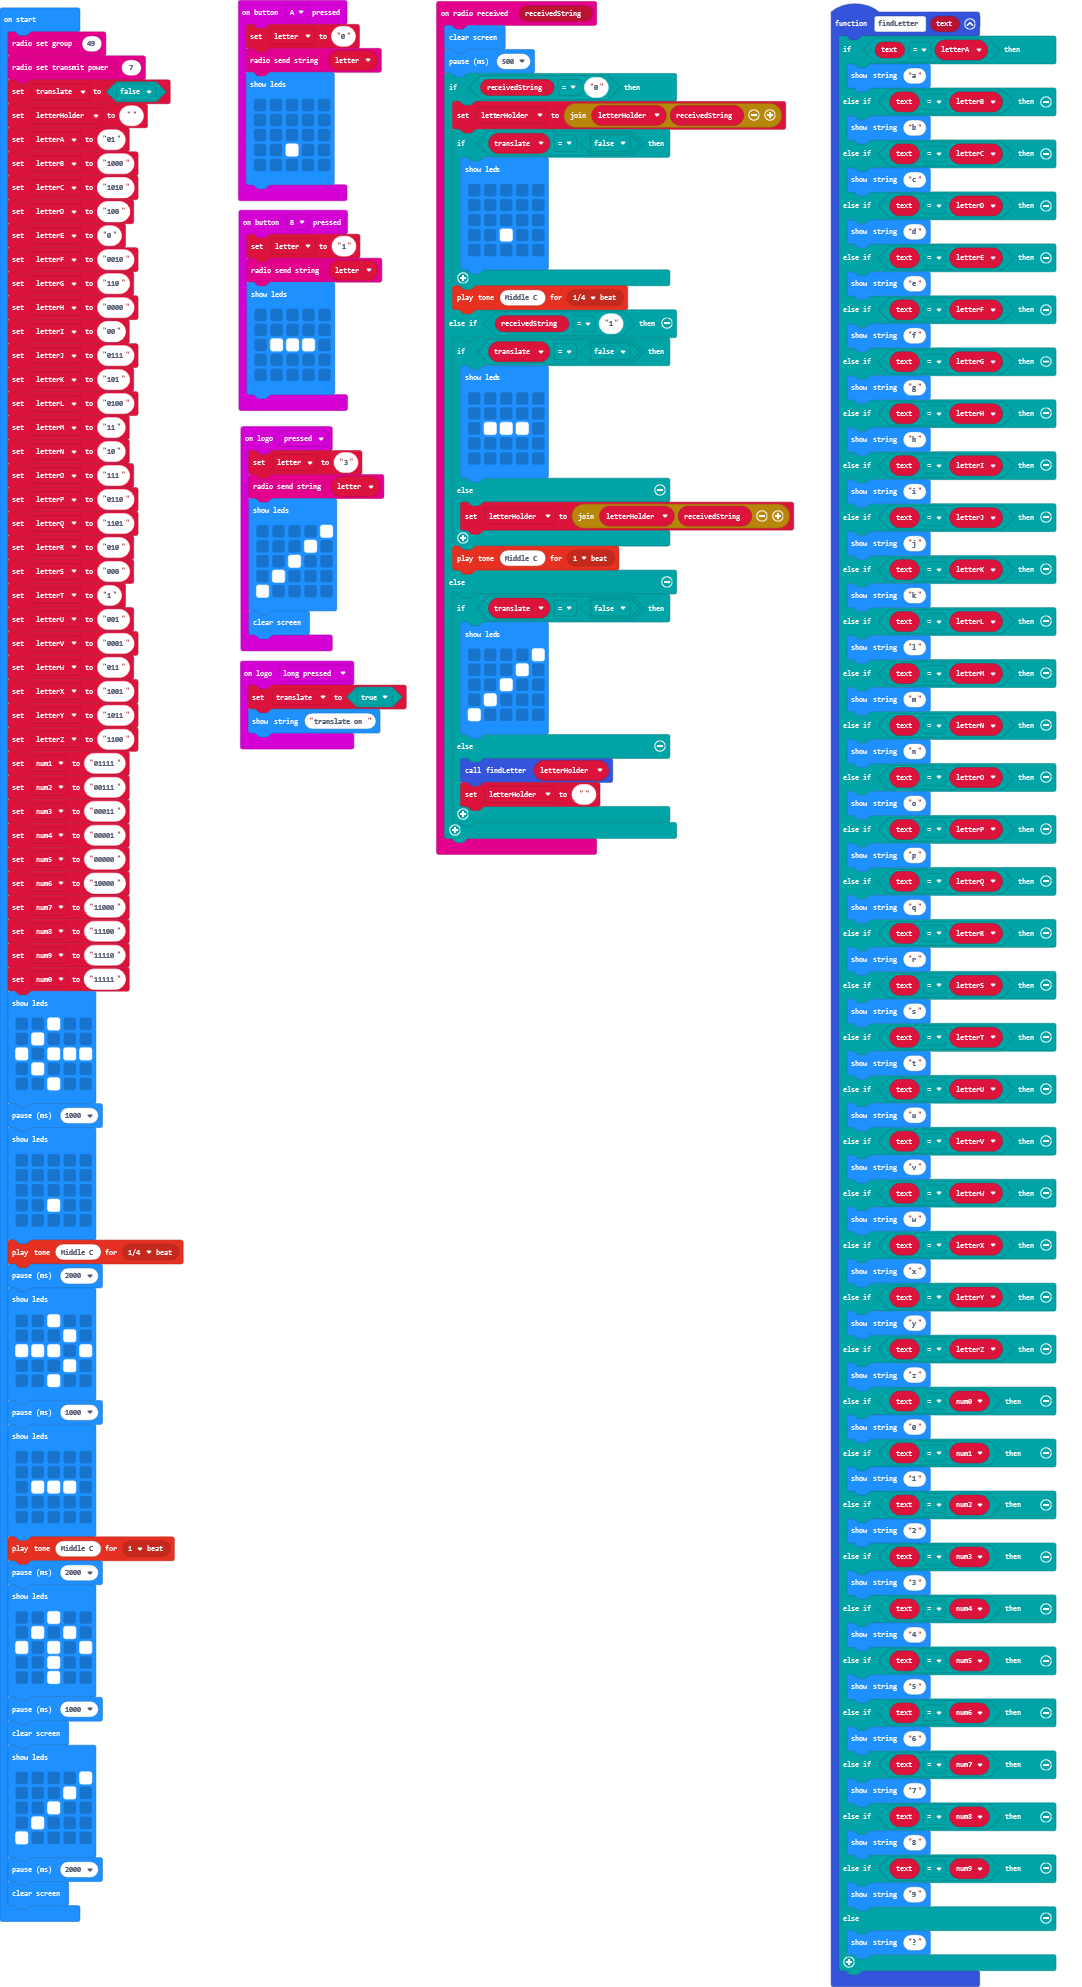
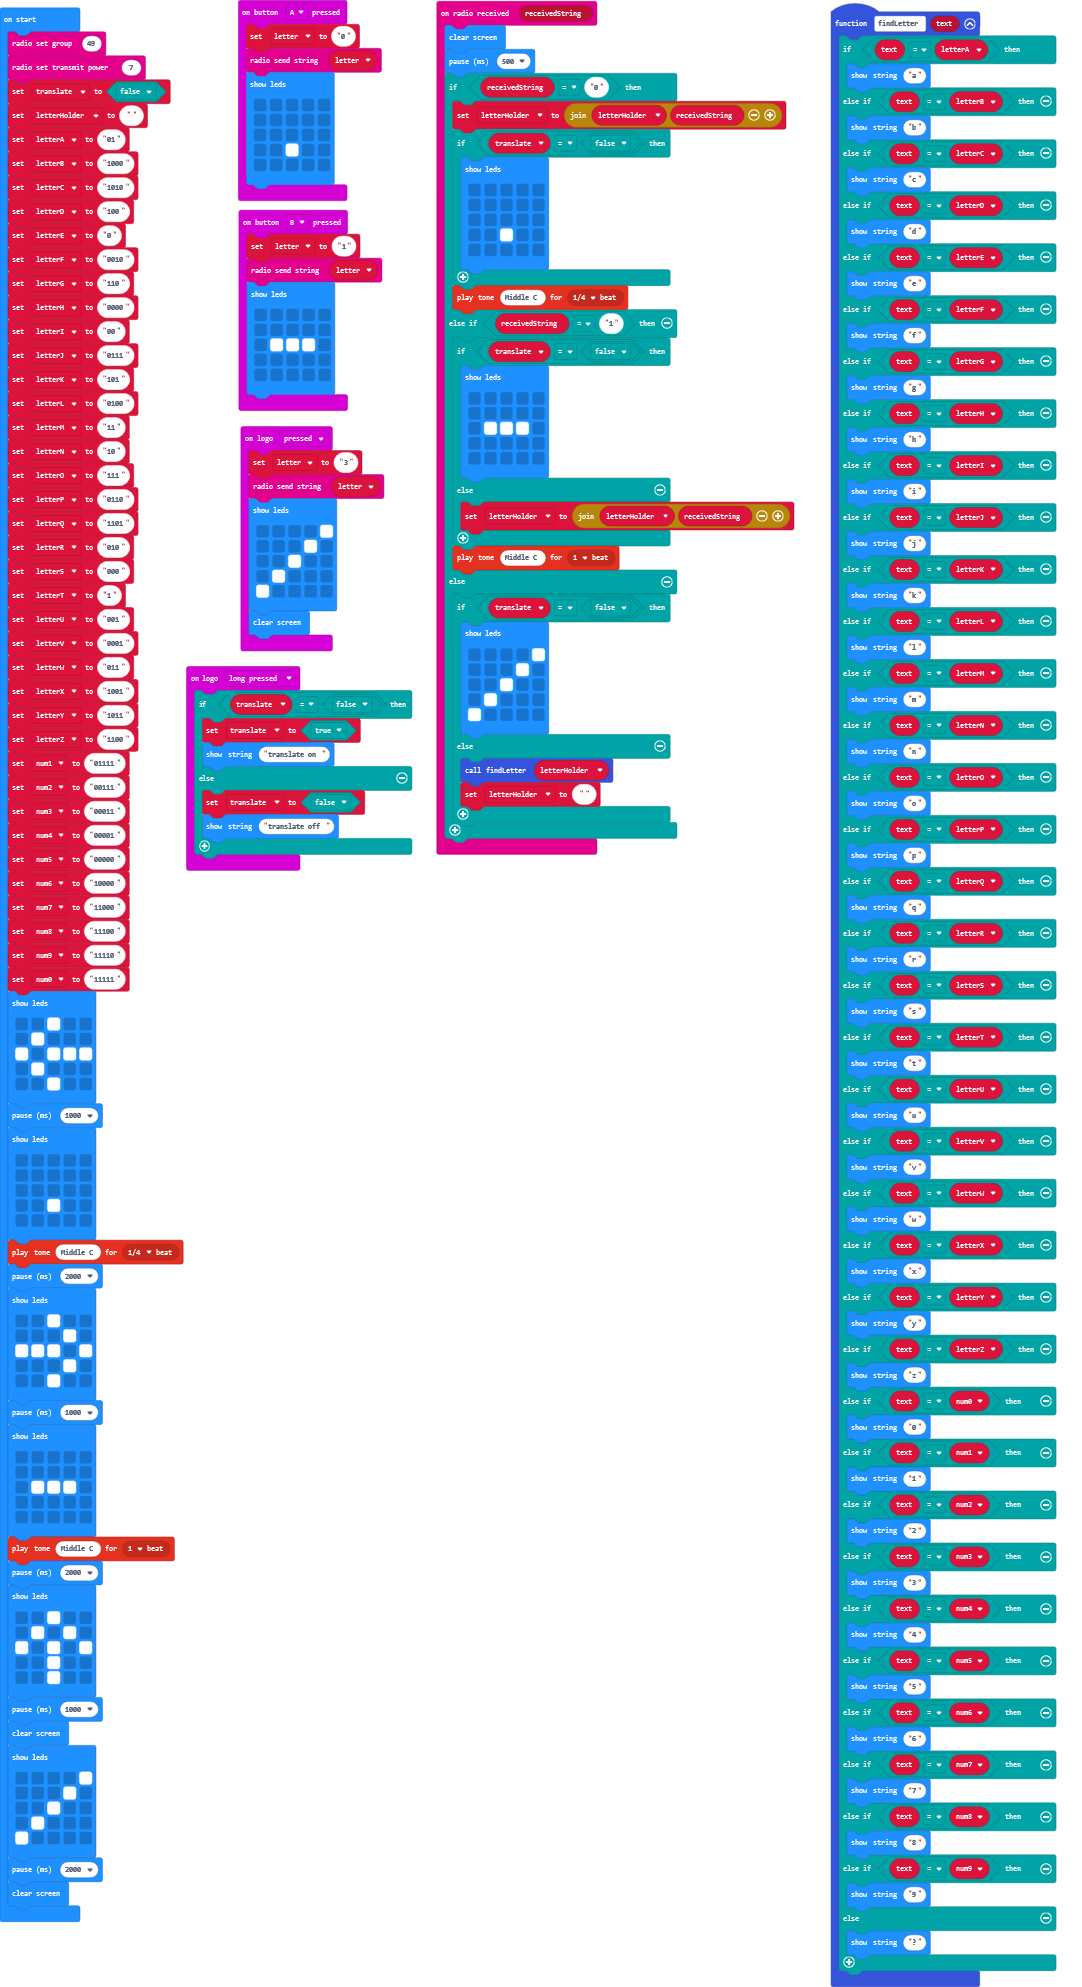
Added ability to turn off translate mode

diff --git a/main.ts b/main.ts
@@ -1,6 +1,11 @@
 input.onLogoEvent(TouchButtonEvent.LongPressed, function () {
-    translate = true
-    basic.showString("translate on")
+    if (translate == false) {
+        translate = true
+        basic.showString("translate on")
+    } else {
+        translate = false
+        basic.showString("translate off")
+    }
 })
 input.onButtonPressed(Button.A, function () {
     letter = "0"
